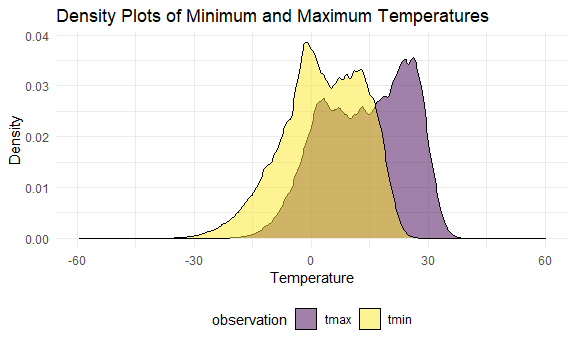
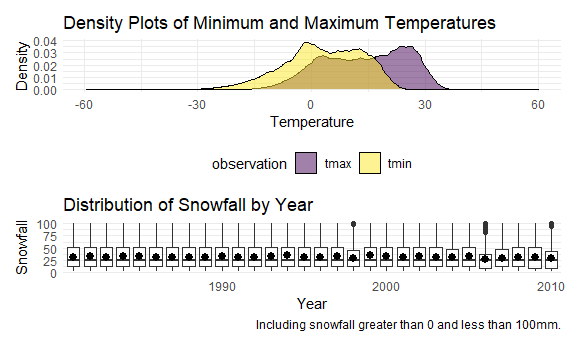
update plots and text for problem 3

diff --git a/p8105_hw3_sec2209.md b/p8105_hw3_sec2209.md
@@ -21,6 +21,7 @@ library(tidyverse)
 
 ``` r
 library(p8105.datasets)
+library(patchwork)
 library(ggridges)
 
 knitr::opts_chunk$set(
@@ -317,12 +318,19 @@ noaa %>%
 
 <img src="p8105_hw3_sec2209_files/figure-gfm/noaa_plot1-1.png" width="90%" />
 
+From this graph, we can see that average maximum temperatures in July
+are much higher than temperatures in January as expected. There is a
+wider range and more outliers in the January temperatures across NY NOAA
+stations than in the July termperatures. The trend in average maximum
+temperatures in January also shows greater fluctuation year-to-year than
+the average maximum temperatures in July.
+
 In this next code chunk, I create a two-panel plot showing `tmax` and
-`tmin` for the full data set and a plot showing the distribution of
-snowfall values great than 0 and less than 100 separately by year.
+`tmin` for the full data set and showing the distribution of snowfall
+values great than 0 and less than 100 separately by year.
 
 ``` r
-noaa %>%
+plot_temp = noaa %>%
   select(id, tmax, tmin) %>%
   pivot_longer(
     tmax:tmin,
@@ -338,8 +346,31 @@ noaa %>%
       y = "Density",
       color = "Observation"
     )
+
+plot_snow = noaa %>%
+  filter(snow > 0, snow < 100) %>%
+  mutate(year = as.factor(year)) %>%
+  drop_na(snow) %>%
+  ggplot(aes(x = year, y = snow)) + 
+    geom_boxplot(alpha = .5) +
+  stat_summary() +
+  scale_x_discrete(
+      breaks = c(1980, 1990, 2000, 2010)
+      ) +
+    labs(
+      title = "Distribution of Snowfall by Year",
+      x = "Year",
+      y = "Snowfall",
+      caption = "Including snowfall greater than 0 and less than 100mm."
+    )
+
+plot_temp / plot_snow
 ```
+
+    ## No summary function supplied, defaulting to `mean_se()`
 
 <img src="p8105_hw3_sec2209_files/figure-gfm/noaa_plot2-1.png" width="90%" />
 
-From this graph, we can see that…
+From this graph, we can see that the distribution in minimum and maximum
+temperatures are offset by approximately 10-15 degrees Celcius. The
+distribution in snowfall is relatively consistent across the years.
